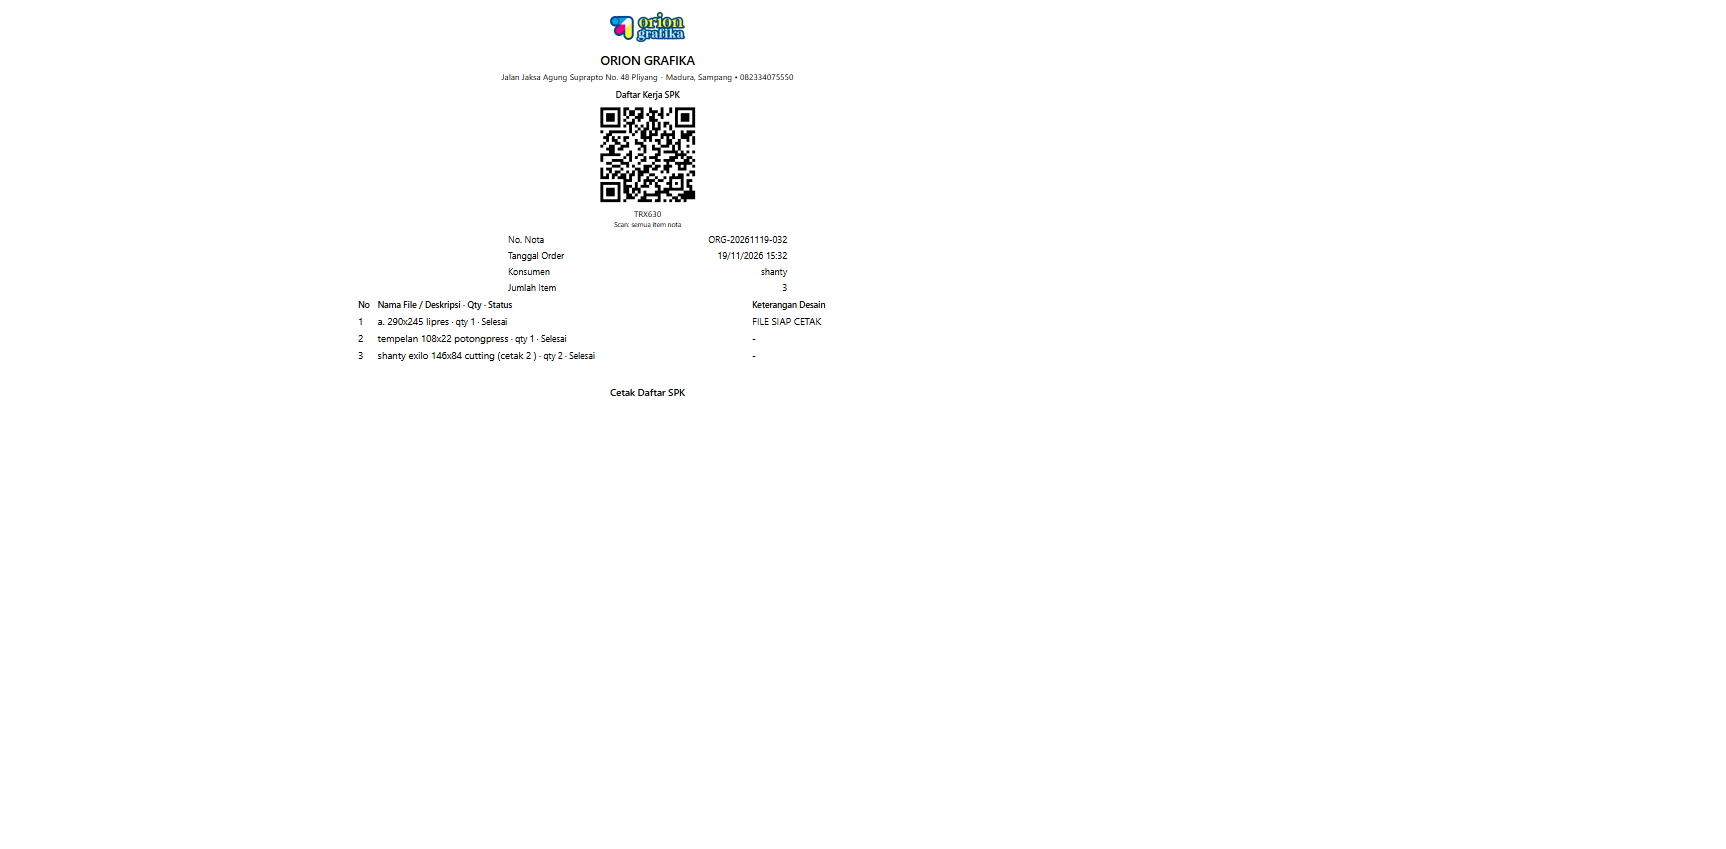
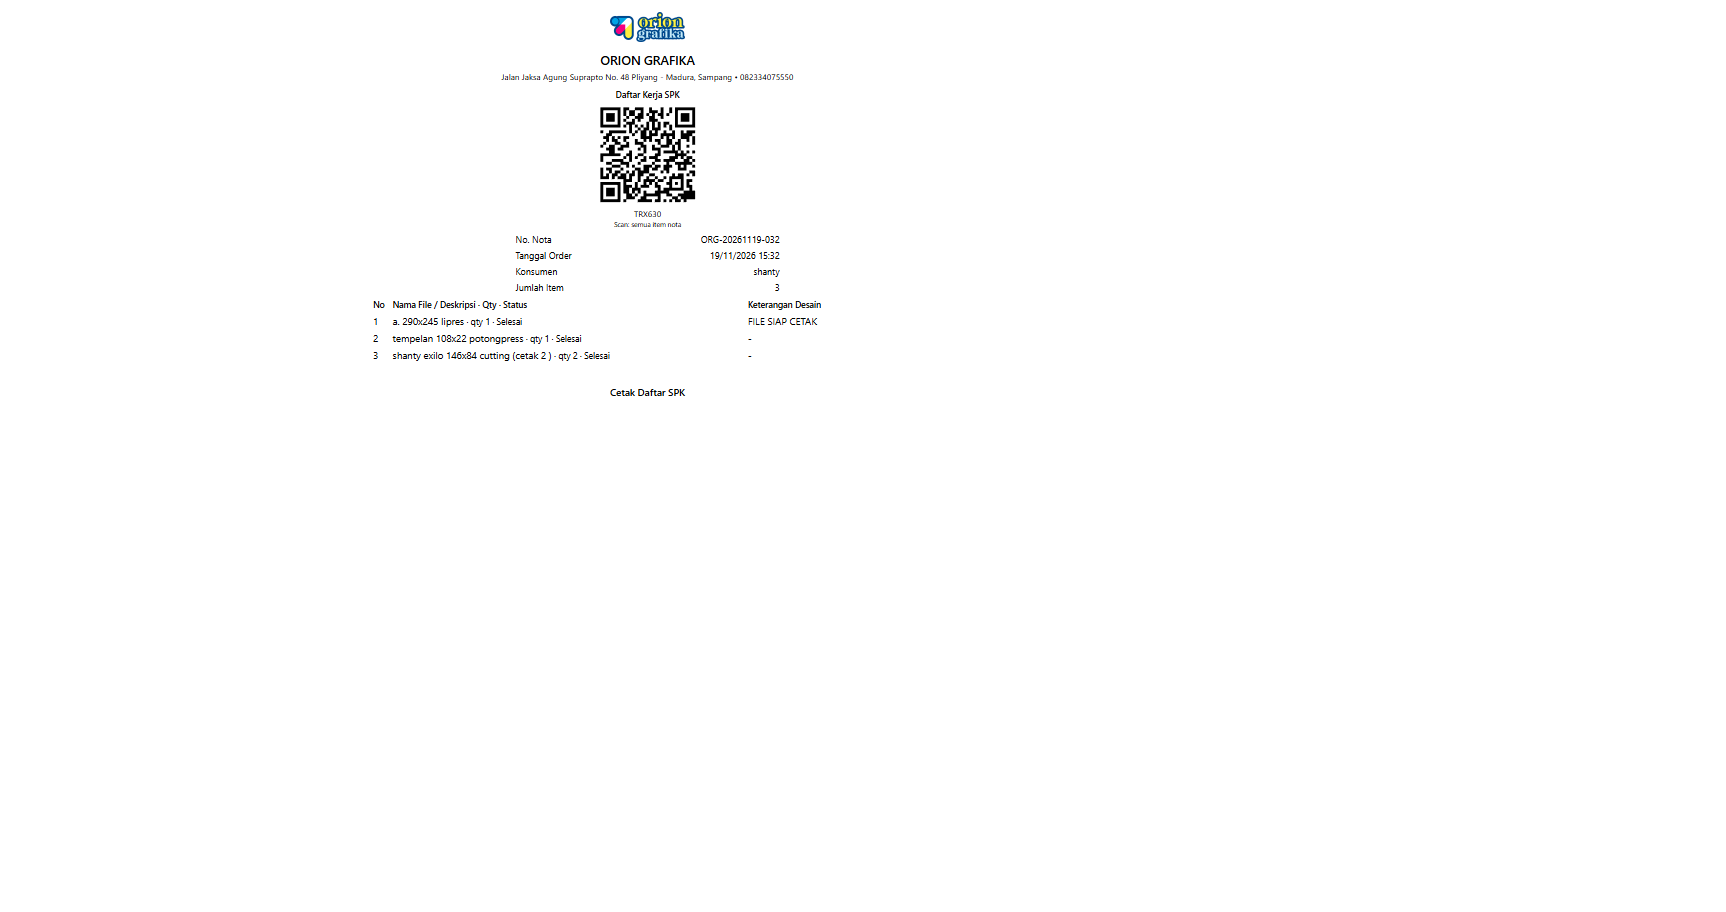
fix(spk): SPK A4 portrait rapi - sheet 740px + sedikit jarak di atas-bawah, padding sel 2px, header SPK lengkap margin 8px - hanya percetakan (jersey tidak disentuh)

Changed region(s): [[0.2764, 0.0, 0.4913, 0.3981], [0.2149, 0.2756, 0.3685, 0.4287], [0.3685, 0.4287, 0.3992, 0.49]]

diff --git a/resources/views/spk/print-semua.blade.php b/resources/views/spk/print-semua.blade.php
@@ -28,9 +28,10 @@
         @if($format !== 'thermal')
         /* Daftar kerja A4 selebar kertas (bukan 480px milik struk, dan
            bukan selebar jendela browser - pratinjau harus sama dengan
-           hasil cetak). */
-        .sheet { max-width: 780px; margin-left: auto; margin-right: auto; }
-        table.info-nota { max-width: 380px; margin: 0 auto; }
+           hasil cetak), sekitar 25px celah per sisi supaya margin
+           portrait cukup jatuh di lubang kertas. */
+        .sheet { max-width: 740px; margin-left: auto; margin-right: auto; }
+        table.info-nota { max-width: 360px; margin: 0 auto; }
         @endif
     </style>
 </head>

diff --git a/resources/views/spk/print.blade.php b/resources/views/spk/print.blade.php
@@ -4,6 +4,16 @@
     <meta charset="UTF-8">
     <title>SPK #{{ $detail->id_detail }}</title>
     @include('partials.print-style')
+    @if($format !== 'thermal')
+    <style>
+        /* Portrait A4: kurangi jeda vertikal dan padding sel supaya
+           satu halaman SPK lengkap masih muat di satu lembaran. */
+        .print-header { margin-bottom: 8px; }
+        table td { padding: 2px 4px; }
+        .divider { margin: 4px 0; }
+        .catatan { margin-top: 8px; }
+    </style>
+    @endif
 </head>
 <body>
     @include('spk._spk-sheet')

diff --git a/docs/reviews/SPK_GABUNGAN_SEMUA_ITEM.md b/docs/reviews/SPK_GABUNGAN_SEMUA_ITEM.md
@@ -96,7 +96,11 @@ Keterangan barcode juga dipendekkan: `Scan: semua item nota`.
   tinggi ±679 px untuk 1 item (kondisi lama).
 - `docs/reviews/assets/thermal-daftar.png` — `…/spk/nota/630/print/thermal`:
   3 item dalam satu struk ±470 px isi (bukan 3 × 679 px).
-- `docs/reviews/assets/spk-daftar-nota.png` — varian A4 (`format=normal`).
+- `docs/reviews/assets/spk-daftar-nota.png` — varian A4, portrait: kiri-kanan
+  sedikit menyempit (740px) dan jarak di atas-bawah disusut, supaya isi
+  tetap muat satu halaman.
+- `docs/reviews/assets/spk-peritem-a4.png` — SPK per item A4 portrait:
+  `.print-header` 8px, `table td` 2px 4px padding, `.divider` 4px.
 - `docs/reviews/assets/jersey-daftar-spk.png` — `/jersey/37/spk`: 2 barang,
   11 pcs, 9 nama pemain → 1 lembar.
 
